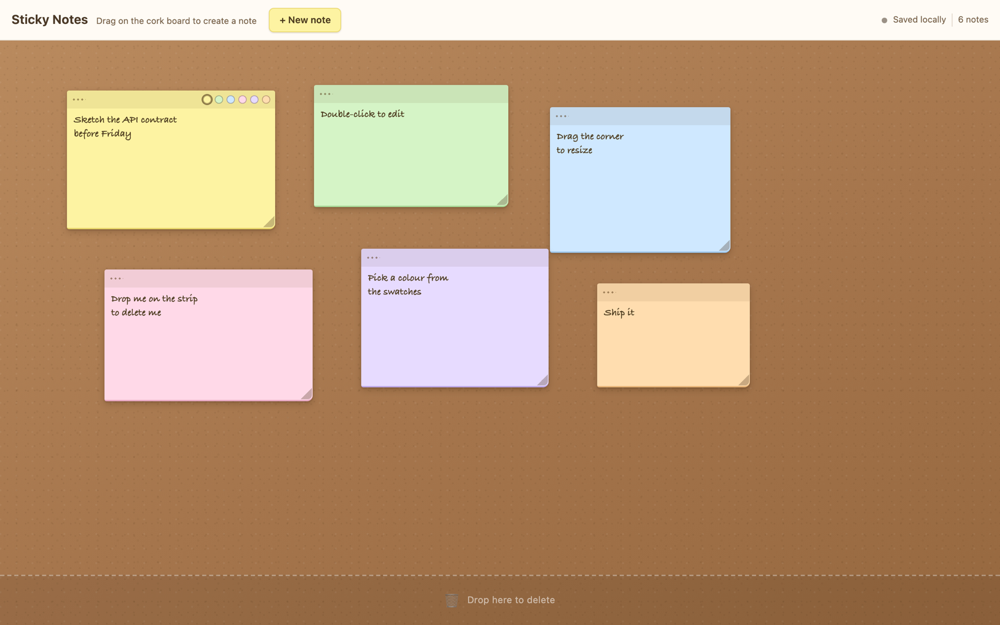
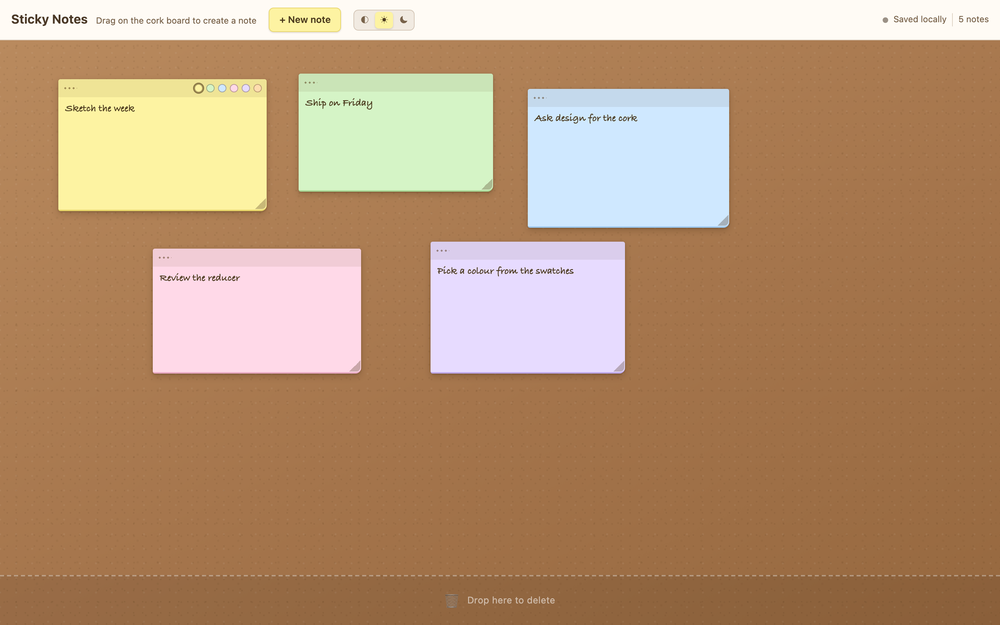
feat(docs): generate the README media from a committed script
The GIF and the screenshots were produced by a throwaway script, so the
README media could not be regenerated when the UI changed - and the theme
toggle that just landed proved it: the GIF still showed a toolbar without it.

scripts/doc-assets.mjs now owns both jobs:

  bun run docs:shots   two screenshots, light and dark, driving the real toggle
  bun run docs:demo    13 s recording -> docs/demo.gif via ffmpeg

It refuses to guess: without a server on BASE_URL it prints how to start one,
and without ffmpeg it says so instead of writing a broken asset. scripts/ is
linted as Node ESM, so the tooling is held to the same gate as the app.

README: the Themes section documents the three-way switch and the pre-paint
script (it still claimed 'no JavaScript'), counts refreshed to 127 unit tests
and 60 browser scenarios, and the layout tree lists the new files.

diff --git a/eslint.config.js b/eslint.config.js
@@ -34,4 +34,14 @@ export default defineConfig([
       globals: { ...globals.node, ...globals.browser },
     },
   },
+  {
+    // Repo tooling: plain ESM run by Node, no types. `page.evaluate` callbacks
+    // run in the browser, so both global sets are legitimate here.
+    files: ['scripts/**/*.mjs'],
+    extends: [js.configs.recommended],
+    languageOptions: {
+      globals: { ...globals.node, ...globals.browser },
+      sourceType: 'module',
+    },
+  },
 ])

diff --git a/README.md b/README.md
@@ -12,8 +12,8 @@ state library, no UI kit**. React DOM is the only runtime dependency.
   <img alt="TypeScript strict" src="https://img.shields.io/badge/TypeScript-strict-3178c6?logo=typescript&amp;logoColor=white">
   <img alt="Vite 8" src="https://img.shields.io/badge/Vite-8-646cff?logo=vite&amp;logoColor=white">
   <img alt="Runtime dependencies: React only" src="https://img.shields.io/badge/runtime_deps-React_only-2f6f4f">
-  <img alt="112 unit tests" src="https://img.shields.io/badge/unit_tests-112-2f6f4f">
-  <img alt="48 browser scenarios" src="https://img.shields.io/badge/browser_scenarios-48-2f6f4f">
+  <img alt="127 unit tests" src="https://img.shields.io/badge/unit_tests-127-2f6f4f">
+  <img alt="60 browser scenarios" src="https://img.shields.io/badge/browser_scenarios-60-2f6f4f">
 </p>
 
 ![Drawing a note, writing in it, moving it, resizing it, recolouring it, deleting it and undoing](docs/demo.gif)
@@ -39,8 +39,8 @@ Drag on the cork board to make your first note. Everything else is discoverable 
 
 Also in: **inline text editing** (blur or `⌘`/`Ctrl`+`Enter` saves, `Esc` discards) · **bring to
 front** on press · **localStorage persistence** that survives reloads and refuses to crash on invalid
-or blocked storage · **six pastel colours** · **an async REST mirror** that reports syncing, synced and
-failed, and offers Retry.
+or blocked storage · **six pastel colours** · **a light / dark / system theme** · **an async REST
+mirror** that reports syncing, synced and failed, and offers Retry.
 
 The edge cases are the part worth reviewing: `Esc` cancels a move or resize and restores the exact
 previous geometry, a note dragged over the bin and back out is kept, every note is clamped inside the
@@ -68,9 +68,12 @@ keys — deleting hands focus to the neighbouring note, and the sync status anno
 live region, so a screen reader is not told the note count on every save. `eslint-plugin-jsx-a11y` is
 part of the lint gate, not a good intention.
 
-## Light and dark
+## Themes
 
-The board follows `prefers-color-scheme`; both themes live in the same stylesheet, no JavaScript.
+The toolbar carries a three-way switch — **system · light · dark** — and the choice is remembered
+across reloads. A small inline script in `index.html` applies the stored preference before the first
+paint, so a dark board never flashes white, and the resolved theme is a `data-theme` attribute on
+`<html>`; both palettes live in the same stylesheet.
 
 | Light | Dark |
 |---|---|
@@ -114,10 +117,10 @@ pointer / keyboard
 
 | Layer | Lives in | Rule it keeps | Covered by |
 |---|---|---|---|
-| Domain and state | `domain/note.ts`, `app/store.ts` | Pure functions and a reducer: no DOM, no React | 32 unit tests |
+| Domain and state | `domain/note.ts`, `app/store.ts`, `app/theme.ts` | Pure functions and a reducer: no DOM, no React | 43 unit tests |
 | Geometry and input | `app/boardGeometry.ts`, `hooks/`, `components/Board.tsx` | Measured once per gesture; one engine, three sessions | 11 + 45 tests |
 | Infrastructure | `infra/persistence.ts`, `infra/mockApi.ts` | Storage never throws at the app; the API is an interface | 15 unit tests |
-| View | `components/`, `index.css` | Renders state, reports intent; no note data in the DOM | 9 tests |
+| View | `components/`, `index.css` | Renders state, reports intent; no note data in the DOM | 13 tests |
 
 ```
 src/
@@ -126,24 +129,27 @@ src/
   app/notesContext.ts         State / dispatch / sync contexts
   app/NotesProvider.tsx       Hydration, debounced persistence, serialised sync, retry
   app/boardGeometry.ts        Measures the board and the strip
+  app/theme.ts                Theme preference: parse, persist, apply
   hooks/useDrag.ts            Pointer-capture drag engine
   hooks/useNoteGestures.ts    Create, move and resize as session factories
   components/Board.tsx        Composition: store, undo, focus, keyboard, layout
   components/Note.tsx         Rendering, editing, palette, keyboard map
-  components/Toolbar.tsx      New note, sync status, note count
+  components/ThemeToggle.tsx  System · light · dark switch
+  components/Toolbar.tsx      New note, theme, sync status, note count
   components/TrashZone.tsx    The drop strip
   components/ErrorBoundary.tsx  Recoverable screen instead of a blank page
   infra/                      localStorage adapter + REST mock
   test/                       jsdom stubs and the shared board harness
 e2e/                          Playwright suite, run against the production build
+scripts/doc-assets.mjs        Regenerates the screenshots and the demo GIF
 openspec/                     Capability specs and the archived change history
 ```
 
 ## Testing
 
 ```bash
-bun run test        # 112 unit and interaction tests (jsdom)
-bun run test:e2e    # 48 browser scenarios: 24 × Chromium and Firefox
+bun run test        # 127 unit and interaction tests (jsdom)
+bun run test:e2e    # 60 browser scenarios: 30 × Chromium and Firefox
 bun run lint        # ESLint: react-hooks, react-refresh, jsx-a11y
 bun run build       # tsc -b (strict) + vite build
 ```
@@ -159,6 +165,7 @@ The browser suite needs its engines once per machine: `bun run test:e2e:install`
 | `hooks/useDrag.test.tsx` | 7 | Deltas, movement outside the element, `Esc`, `pointercancel`, sequential sessions, unmount teardown |
 | `index.css.test.ts` | 7 | PostCSS AST guard: no Sass-only nesting, a background per colour, strip height defined once, `sr-only`, crash screen |
 | `components/board.regressions.test.tsx` | 6 | Escape-then-edit, palette radio group, stacking no-op, focus after delete, viewport clamp |
+| `app/theme.test.ts` · `components/theme.test.tsx` | 11 · 4 | Theme preference parsing, persistence, pre-paint application, the toggle control |
 | `app/boardGeometry.test.ts` · `infra/mockApi.test.ts` · `components/ErrorBoundary.test.tsx` | 4 · 3 · 2 | Measured geometry, async mock, crash screen |
 
 The component suite runs through the **React Compiler**, exactly like the production build, so a
@@ -170,6 +177,10 @@ cross-engine behaviour. Selectors are `data-testid`-based and interaction state 
 attributes, so renaming a style class cannot break the suite. It asserts concrete numbers, so a
 regression names the value that moved: create → `240×160` at `(120, 150)`, move → `+40/−30`, resize →
 `300×190` with the top-left anchored, keyboard → `64,64 → 80,72`.
+
+The media in `docs/` is generated the same way, not hand-cropped: `bun run docs:shots` and
+`bun run docs:demo` drive the production build with Playwright and encode with ffmpeg, so the GIF in
+this README is the app as it ships (`scripts/doc-assets.mjs`).
 
 ## Decisions
 
